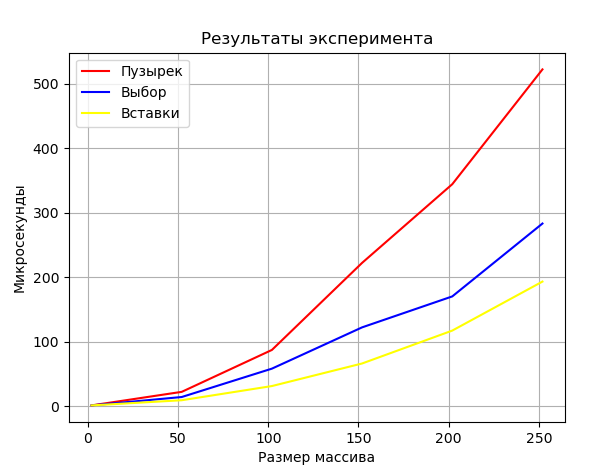
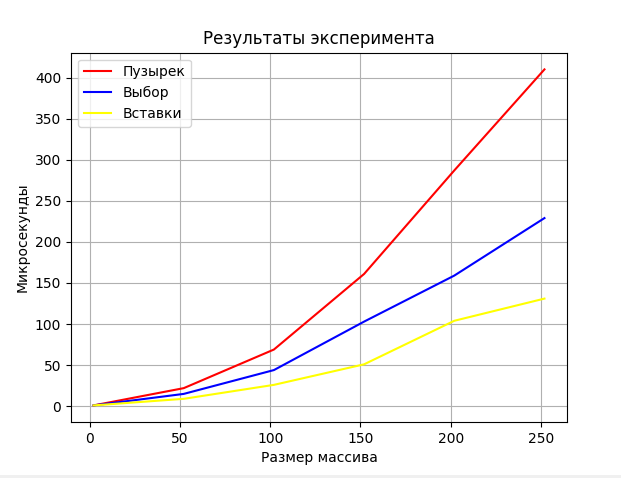
Update lab_03 report

Changed region(s): [[0.0, 0.0591, 0.9314, 0.9747]]

diff --git a/lab_03/report/report.tex b/lab_03/report/report.tex
@@ -1,5 +1,6 @@
 \documentclass{article}
 
+\usepackage{GOST}
 \usepackage[T1, T2A]{fontenc}
 \usepackage[utf8]{inputenc}
 \usepackage[russian]{babel}
@@ -7,9 +8,6 @@
 \usepackage{amssymb}
 \usepackage{amsmath}
 \usepackage{hyperref}
-\usepackage[left=2cm, right=2cm, top = 2cm, bottom = 2cm, bindingoffset=0cm]{geometry}
-\usepackage{indentfirst}
-\usepackage{graphicx}
 
 \usepackage{listings}
 % Для листинга кода:
@@ -52,7 +50,7 @@
 		\begin{enumerate}
 		\item сортировка пузырьком;
 		\item сортировка вставками;
-		\item сортировка выбором;
+		\item сортировка выбором.
 		\end{enumerate}
 	\newpage
 	\section{Аналитическая часть}
@@ -64,8 +62,8 @@
 			\newline 
 			\indent \textbf{Задачи работы:}
 			\begin{enumerate}
-				\item дать описание реализуемых сортировок;
-				\item реализовать построенные алгоритмы;
+				\item дать описание реализуемых алгоритмов сортировок;
+				\item реализовать описанные алгоритмы;
 				\item провести эксперименты по замеру времени работы разработанных алгоритмов;
 				\item провести сравнения алгоритмов по затраченному времени;
 				\item дать оценку трудоемкости алгоритмов.
@@ -133,14 +131,16 @@
 	int_{bubble}=\frac{(n-1)n}{2}
 \end{equation}
 	Тогда, если массив отсортирован в обратном порядке, происходит худший случай сортировки пузырьком \hyperref[worstBubble]{[\ref{worstBubble}]}:
-	\begin{equation}\label{worstBubble}
-		f_{bubble} = (3 + 1 + (2 + 1 + 2 + 1 + f_{swap})) * int_{bubble}) + (2 + 1 + 1)(n - 1) + 1 + 1 = 17 * int{bubble} + 4 * (n - 1) + 2 =
-		\frac{17 * (n-1)n}{2} + 4 * (n - 1) + 2 \thickapprox \frac{17n^2}{2}
-	\end{equation}
+	\\
+	$
+		f_{bubble} = (3 + 1 + (2 + 1 + 2 + 1 + f_{swap}))int_{bubble}) + (2 + 1 + 1)(n - 1)
+		 + 1 + 1 = 17int_{bubble} + 4(n - 1) + 2 = \newline
+		\frac{17(n-1)n}{2} + 4(n - 1) + 2 \thickapprox \frac{17n^2}{2}
+	$\begin{equation}\label{worstBubble}\end{equation}
 	А если массив отсортирован, происходит лучший случай \hyperref[bestBubble]{[\ref{bestBubble}]}:
 	\begin{equation}\label{bestBubble}
-		f_{bubble} = (3 + 1 + (2 + 1 + 1)) * int_{bubble}) + (2 + 1 + 1)(n - 1) + 1 + 1 = 8 * int{bubble} + 4 * (n - 1) + 2 =
-		= \frac{8 * (n-1)n}{2} + 4 * (n - 1) + 2 \thickapprox 4n^2
+		f_{bubble} = (3 + 1 + (2 + 1 + 1)) int_{bubble}) + (2 + 1 + 1)(n - 1) + 1 + 1 = 8 int_{bubble} + 4(n - 1) + 2 =
+		= \frac{8(n-1)n}{2} + 4(n - 1) + 2 \thickapprox 4n^2
 	\end{equation}
 	
 
@@ -150,7 +150,7 @@
 \end{equation}
 	Тогда, если массив отсортирован в обратном порядке, происходит худший случай \hyperref[worstChoose]{[\ref{worstChoose}]}:
 	\begin{equation}\label{worstChoose}
-		f_{choose} = ((2 + 4) * int{choose}) + (3 + 1 + f_{swap}) * (n - 1) + 2 =
+		f_{choose} = ((2 + 4) * int_{choose}) + (3 + 1 + f_{swap}) * (n - 1) + 2 =
 		 \frac{6 * (n-1)n}{2} + 11 * (n - 1) + 2 \thickapprox 3n^2
 	\end{equation}
 	А если массив отсортирован, происходит лучший случай \hyperref[bestChoose]{[\ref{bestChoose}]}:
@@ -167,7 +167,7 @@
 \end{equation}
 	Тогда, если массив отсортирован в обратном порядке, происходит худший случай \hyperref[worstInsert]{[\ref{worstInsert}]}:
 	\begin{equation}\label{worstInsert}
-		f_{insert} = ((5 + 5) * int{insert}) + (2 + 5) * (n - 1) + 2 =
+		f_{insert} = ((5 + 5) * int_{insert}) + (2 + 5) * (n - 1) + 2 =
 		 \frac{10 * (n-1)n}{2} + 7 * (n - 1) + 2 \thickapprox 5n^2
 	\end{equation}
 	А если массив отсортирован, происходит лучший случай \hyperref[bestInsert]{[\ref{bestInsert}]}:
@@ -263,7 +263,7 @@
 	\end{lstlisting}
 
 	\subsection{Вывод}
-	В данном разделе были описаны средства реализации, были представлены листинги реализации стандартного алгоритма сортировки массивов, обычного и оптимизированного алгоритма Винограда.
+	В данном разделе были описаны средства реализации, были представлены листинги реализации сотрировок пузырьком, вставками и выбором.
 
 	\newpage
 	\section{Экспериментальная часть}

diff --git a/lab_03/source/main.cpp b/lab_03/source/main.cpp
@@ -64,39 +64,47 @@ int main() {
                 QueryPerformanceFrequency(&frequency);
                 QueryPerformanceCounter(&startingTime);
 
-                answer = sortSelect(array);
+                for (int i = 0; i < 100; i++)
+                {
+                    answer = sortSelect(array);
+                }
 
                 QueryPerformanceCounter(&endingTime);
                 ellapsedMicrosecond.QuadPart = endingTime.QuadPart - startingTime.QuadPart;
                 ellapsedMicrosecond.QuadPart *= 1000000;
                 ellapsedMicrosecond.QuadPart /= frequency.QuadPart;
-                long double selectMS = ellapsedMicrosecond.QuadPart;
+                long double selectMS = ellapsedMicrosecond.QuadPart / 100;
 
                 // Bubble
                 QueryPerformanceFrequency(&frequency);
                 QueryPerformanceCounter(&startingTime);
 
-                answer = sortBubble(array);
-                
+                for (int i = 0; i < 100; i++)
+                {
+                    answer = sortBubble(array);
+                }
                 QueryPerformanceCounter(&endingTime);
                 ellapsedMicrosecond.QuadPart = endingTime.QuadPart - startingTime.QuadPart;
                 ellapsedMicrosecond.QuadPart *= 1000000;
                 ellapsedMicrosecond.QuadPart /= frequency.QuadPart;
 
-                long double bubbleMS = ellapsedMicrosecond.QuadPart;
+                long double bubbleMS = ellapsedMicrosecond.QuadPart / 100;
 
                 // Insertion
                 QueryPerformanceFrequency(&frequency);
                 QueryPerformanceCounter(&startingTime);
 
-                answer = sortInsertion(array);
+                for (int i = 0; i < 100; i++)
+                {
+                    answer = sortInsertion(array);
+                }
                 
                 QueryPerformanceCounter(&endingTime);
                 ellapsedMicrosecond.QuadPart = endingTime.QuadPart - startingTime.QuadPart;
                 ellapsedMicrosecond.QuadPart *= 1000000;
                 ellapsedMicrosecond.QuadPart /= frequency.QuadPart;
 
-                long double insertionMS = ellapsedMicrosecond.QuadPart;
+                long double insertionMS = ellapsedMicrosecond.QuadPart / 100;
 
                 cout << "\n Size: " << i << "\nBubble: " << bubbleMS << "     Select: " << selectMS << "       Insertion: " << insertionMS << "\n";
             }

diff --git a/graph.py b/graph.py
@@ -4,13 +4,13 @@ import matplotlib.pyplot as plt
 x1 = [2, 52, 102, 152, 202, 252]
 x2 = [302, 352, 402, 452, 502]
 
-y11 = [1, 22, 87, 222, 344, 522]
-y12 = [1, 14, 58, 122, 170, 283]
-y13 = [1, 9, 31, 66, 117, 193]
+y11 = [1, 22, 69, 161, 287, 410]
+y12 = [1, 15, 44, 103, 159, 229]
+y13 = [1, 9, 26, 51, 104, 131]
 
-y21 = [761, 1014, 1419, 1930, 2124]
-y22 = [380, 492, 656, 815, 1016]
-y23 = [250, 367, 492, 577, 663]
+y21 = [623, 886, 1254, 1557, 1715]
+y22 = [326, 453, 554, 704, 887]
+y23 = [212, 279, 366, 466, 583]
 
 fig = plt.figure()
 
